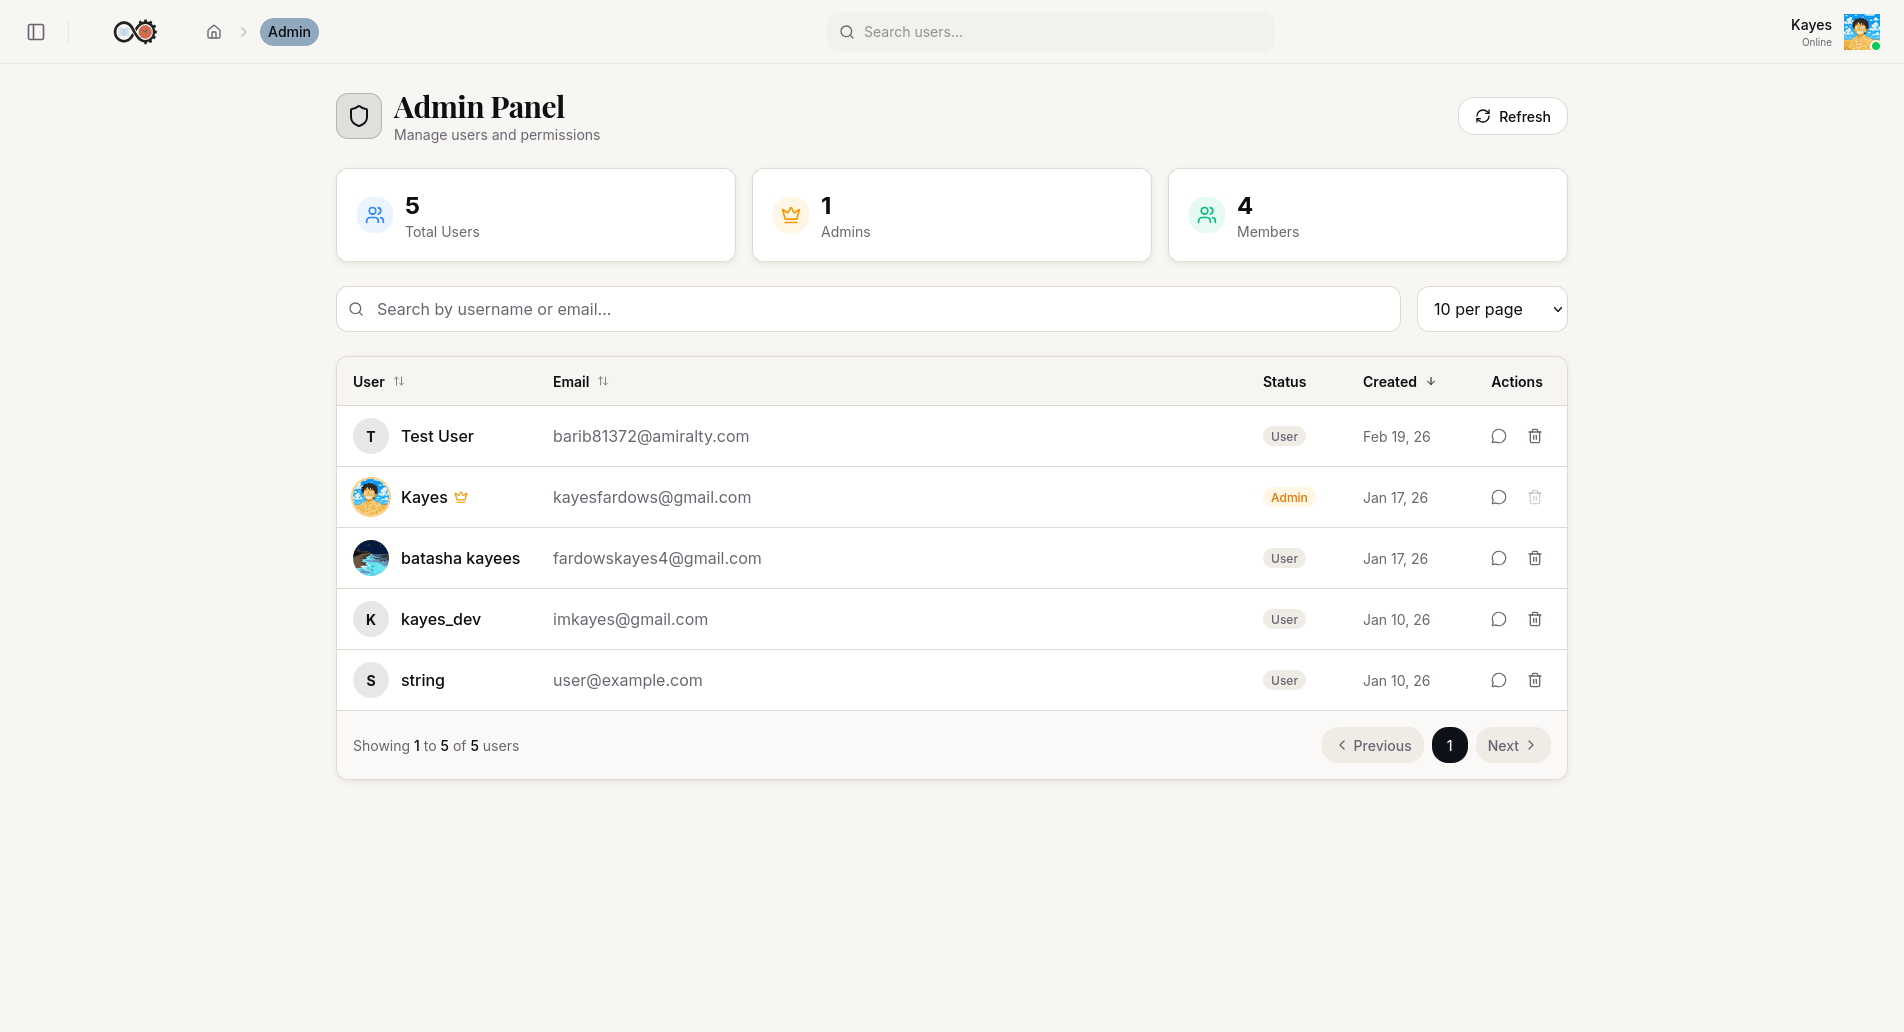
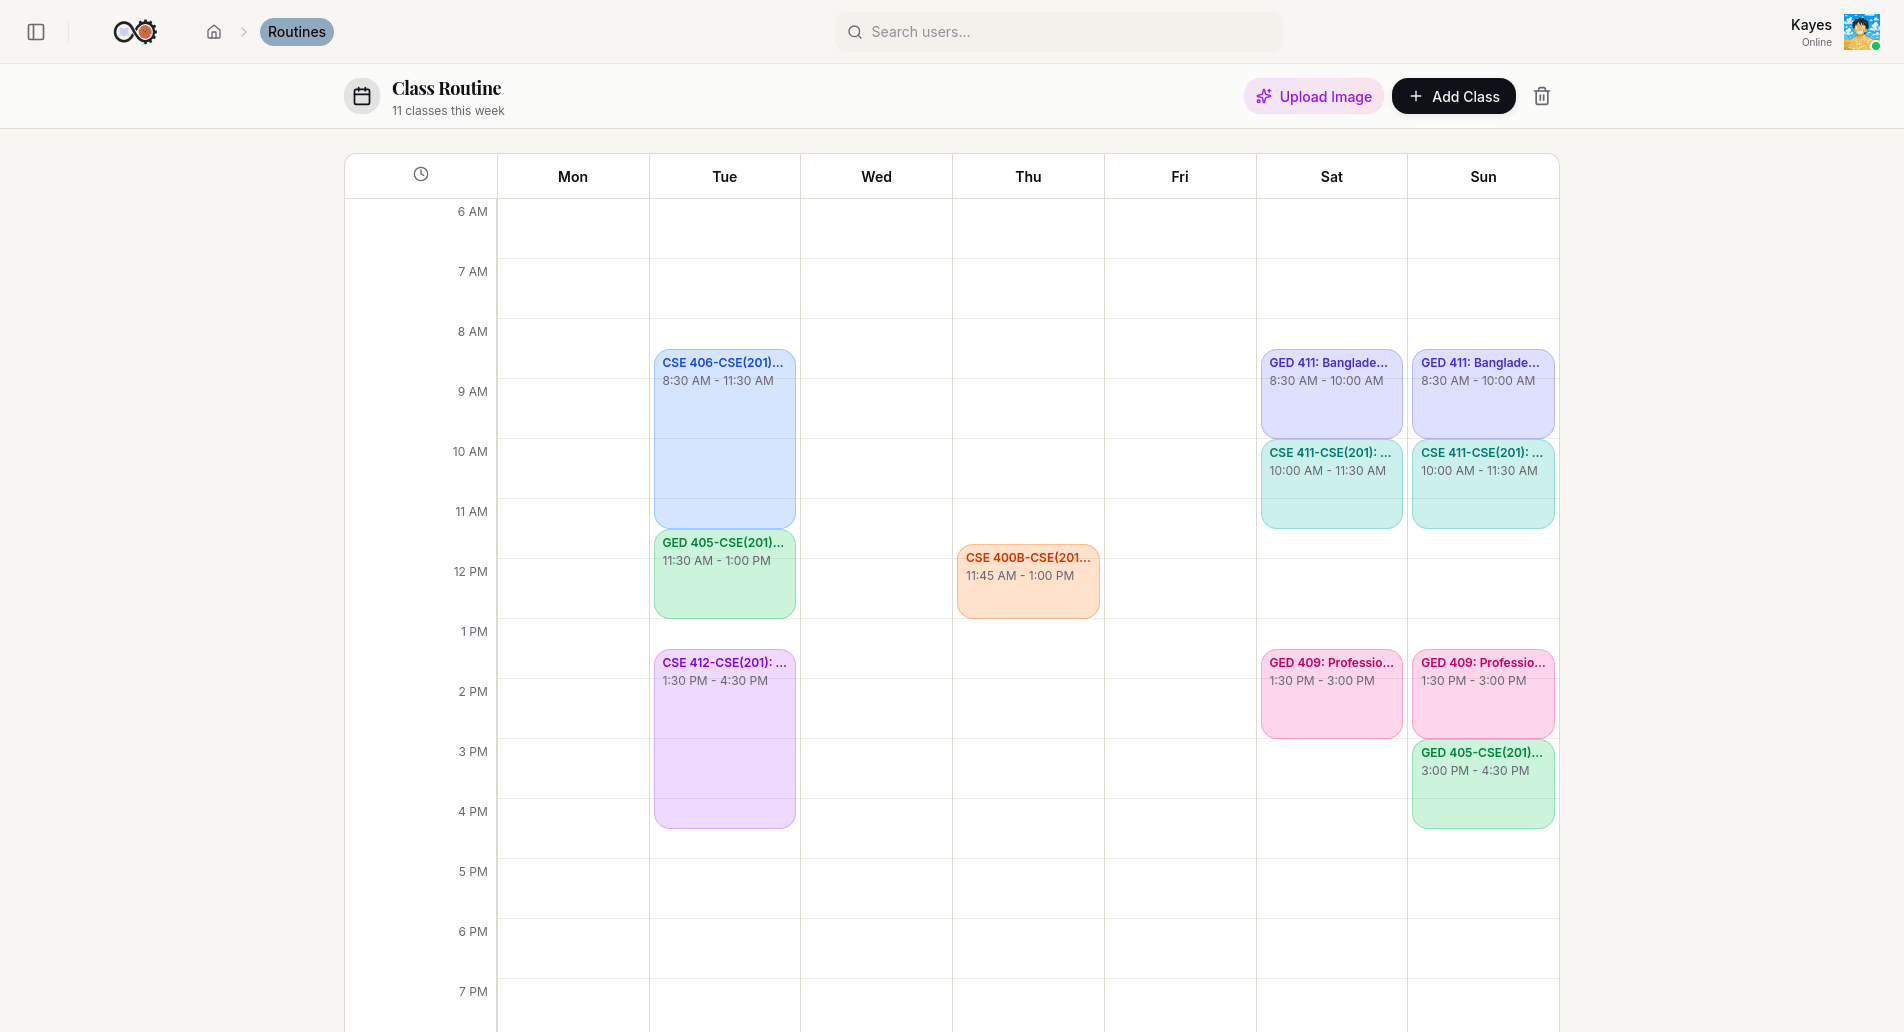
Update class schedule output image for enhanced visual representation

diff --git a/README.md b/README.md
@@ -11,7 +11,17 @@
 [![Backend](https://img.shields.io/badge/Backend-FastAPI-lightgrey.svg)](backend)
 [![Languages](https://img.shields.io/badge/Tech-TS%20%7C%20Python-%23007ACC)](#)
 
-LearnSync is a full-stack AI-powered learning and productivity platform combining a modern Next.js frontend with a FastAPI backend. It provides AI chat, course workspaces, quizzes, calendar sync, routine extraction, and file-based knowledge indexing.
+LearnSync is a full-stack AI-powered learning and productivity platform combining a Next.js frontend with a FastAPI backend. It provides multi-turn AI chat, document workspaces, quiz generation, Google Calendar synchronization, routine extraction from images, and file-based knowledge retrieval.
+
+### 🎯 Technical Reviewer Navigation
+To audit the codebase structure and review the system's outputs, use the direct shortcuts below:
+* **[🔎 End-to-End RAG Trace & Logs](#rag-trace)** — Step-by-step example tracing parsing, query expansion, metadata filters, and retrieval scoring.
+* **[📸 Core Workspace Screenshots](#interface-showcase)** — Visual interfaces displaying active RAG chats and key user workspaces.
+* **[📂 Complete 11+ Screen Gallery](#complete-gallery)** — Collapsed index containing quizzes, settings, editors, and administrative panels.
+* **[🏗 Full-Stack System Architecture Diagram](#system-architecture)** — High-level layout of user, worker, and storage layers.
+* **[💻 Direct Code Links](#rag-code-links)** — Link directly to the Python implementation files (Ingestion, Scoping, and Retrieval).
+
+---
 
 ## Quick links
 
@@ -29,58 +39,60 @@ LearnSync is a full-stack AI-powered learning and productivity platform combinin
 - Rich text editor (Tiptap) and translation utilities
 - JWT cookie auth + Google OAuth, admin and user settings
 
-## 🚀 Recruiter Spotlight: Production-Grade RAG Engine
+---
 
-LearnSync features a modern, industry-grade **Retrieval-Augmented Generation (RAG)** engine built to solve real-world retrieval issues like semantic dilution, context loss, data fragmentation, and exact-keyword search failures. 
+<h2 id="rag-architecture">🧠 Retrieval-Augmented Generation (RAG) Architecture</h2>
 
-Rather than using basic, naive langchain wrappers, LearnSync implements a high-performance, layout-aware pipeline:
+LearnSync implements a custom **Retrieval-Augmented Generation (RAG)** pipeline designed to address core document retrieval limitations, such as layout preservation during parsing, chunk semantic context-loss, and multi-turn conversational query ambiguity.
+
+Instead of treating text as a flat character string, the architecture integrates deep-learning document analysis with structured vector storage:
 
 ```mermaid
 graph TD
-    A[User File Upload] -->|Direct pre-signed upload| B[(Cloudflare R2)]
-    B -->|Asynchronous task trigger| C[Background Worker]
-    C -->|Layout-aware deep parsing| D[IBM Docling Converter]
-    D -->|Structural splitting| E[Hybrid Chunker]
-    E -->|Hierarchical breadcrumb enrichment| F[Contextual Prepender]
-    F -->|Dense + Sparse vectors indexing| G[(Qdrant Vector DB)]
+    A[File Upload] -->|R2 Pre-signed Upload| B[(Cloudflare R2)]
+    B -->|Async Event Task| C[Background Worker]
+    C -->|IBM Docling Parser| D[Document Layout Converter]
+    D -->|Hybrid Chunker| E[Structure-Aware Splitting]
+    E -->|Breadcrumb Extraction| F[Context Prepender]
+    F -->|Dense + Sparse Embeddings| G[(Qdrant Vector DB)]
     
-    H[User Search Query] -->|Multi-turn history expansion| I[LLM Query Rewriter]
-    I -->|High-speed security filter| J[Metadata Scoper]
-    J -->|Dual hybrid match| G
-    G -->|Dense Embedding Ollama| K[Semantic Match]
-    G -->|Sparse BM25 FastEmbed| L[Keyword Match]
-    K & L -->|RRF Fusion / Scoring| M[Top-K Augmented Context]
-    M -->|Synthesized response + Citations| N[Main LLM Inference]
+    H[User Search Query] -->|Multi-Turn History Expansion| I[LLM Query Rewriter]
+    I -->|Security & Access Controls| J[Qdrant Metadata Filter]
+    J -->|Dense + Sparse Fusion Search| G
+    G -->|Ollama Embeddings| K[Dense Match]
+    G -->|FastEmbed BM25| L[Sparse Match]
+    K & L -->|RRF Fusion / Scoring| M[Context Assembly]
+    M -->|Prompt Context + Citations| N[LLM Inference]
 ```
 
-### The 6 Technical Pillars of the LearnSync RAG Engine
+<h3 id="rag-code-links">Core Technical Implementation</h3>
 
-Browse the direct implementation files to review the production-level code patterns:
+You can review the direct implementation patterns in the following files:
 
-1. **Layout-Aware Deep Parsing (IBM Docling)** 
-   * **Source:** [ingestion.py (L76-104)](backend/src/rag/ingestion.py#L76-L104)
-   * **Mechanism:** Naive PDF parsers discard layout, column flows, and table structures. LearnSync utilizes **IBM's Docling** (`DocumentConverter`), employing deep-learning layout models to reconstruct the structural layout of documents before chunking.
-2. **Structure-Preserving Hybrid Chunking**
-   * **Source:** [ingestion.py (L91-101)](backend/src/rag/ingestion.py#L91-L101)
-   * **Mechanism:** Leverages Docling's `HybridChunker` to respect native boundaries (headers, lists, tables). This stops data fragmentation (like cutting a table row in half) and intelligently groups small chunks under a token-informed budget (up to 500 tokens).
-3. **Contextual Breadcrumb Enrichment**
-   * **Source:** [ingestion.py (L12-73)](backend/src/rag/ingestion.py#L12-L73)
-   * **Mechanism:** Solves the *"lost in chunking"* problem. During ingestion, it recursively extracts a chunk's hierarchical position (e.g., `Syllabus > Chapter 3 > Grading Criteria`) and prepends it to the chunk content prior to embedding. This maintains context even when the retrieved text is highly specific.
+1. **Layout-Aware Document Ingestion (IBM Docling)** 
+   * **Source File:** [ingestion.py (L76-104)](backend/src/rag/ingestion.py#L76-L104)
+   * **Implementation:** Text-based parsers discard layout formatting and column flow. LearnSync utilizes **IBM's Docling** (`DocumentConverter`), employing deep-learning layout models to reconstruct the structural layout (e.g. multi-column alignment, lists, tables) of documents before chunking.
+2. **Structure-Preserving Chunking**
+   * **Source File:** [ingestion.py (L91-101)](backend/src/rag/ingestion.py#L91-L101)
+   * **Implementation:** Leverages Docling's `HybridChunker` to respect native document boundaries (headers, lists, tables). This prevents splitting key items (like single table cells or list nodes) in half, grouping adjacent text nodes up to a 500-token threshold.
+3. **Contextual Enrichment**
+   * **Source File:** [ingestion.py (L12-73)](backend/src/rag/ingestion.py#L12-L73)
+   * **Implementation:** Resolves mid-document context loss (the *"lost in chunking"* problem). During ingestion, it recursively extracts a chunk's hierarchical section breadcrumbs (e.g. `Syllabus > Chapter 3 > Grading Criteria`) and prepends this trail directly to the chunk's content before computing embeddings.
 4. **Multi-Turn Query Rewriting & Expansion**
-   * **Source:** [rag_node.py (L12-38)](backend/src/agents/nodes/rag_node.py#L12-L38)
-   * **Mechanism:** Converts conversational multi-turn queries (e.g., *"how is it graded?"*) into a retrieval-focused search query by expanding the query with context and history (e.g., *"CS101 grading breakdown percentage syllabus assignments exams"*).
-5. **Secure, Scoped Metadata Filtering**
-   * **Source:** [rag_node.py (L47-74)](backend/src/agents/nodes/rag_node.py#L47-L74)
-   * **Mechanism:** Applies high-speed **Qdrant native field filtering** (`Filter`, `MatchAny`, `MatchValue`) at search time. This ensures total data isolation, restricting the RAG scope to the user's specific `user_id` and selected `file_ids`, `folder_id`, or current conversation.
-6. **Dual-Engine Hybrid Search (Dense + Sparse)**
-   * **Source:** [store.py (L53-66)](backend/src/rag/store.py#L53-L66) & [retrieval.py (L7-23)](backend/src/rag/retrieval.py#L7-L23)
-   * **Mechanism:** Fuses semantic similarity with keyword match. Combines **Dense Vector Search** (`OllamaEmbeddings`) for synonyms and conceptual matching, with **Sparse Vector Search** (`FastEmbedSparse` with `Qdrant/bm25`) for matching exact IDs, technical jargon, and codes.
+   * **Source File:** [rag_node.py (L12-38)](backend/src/agents/nodes/rag_node.py#L12-L38)
+   * **Implementation:** Converts conversational shorthand (e.g. *"how is it graded?"*) into a standalone retrieval vector search query by prompting a dedicated LLM thread with the user query and the last three turns of conversation history.
+5. **Metadata-Scoped Vector Filtering**
+   * **Source File:** [rag_node.py (L47-74)](backend/src/agents/nodes/rag_node.py#L47-L74)
+   * **Implementation:** Restricts vector queries at search time using Qdrant field conditions (`metadata.user_id` and selected `file_ids`, `folder_id`, or `conversation_id`) to ensure data isolation.
+6. **Dense + Sparse Hybrid Search**
+   * **Source File:** [store.py (L53-66)](backend/src/rag/store.py#L53-L66) & [retrieval.py (L7-23)](backend/src/rag/retrieval.py#L7-L23)
+   * **Implementation:** Configures a Qdrant `HYBRID` vector store blending Dense Search (`OllamaEmbeddings` for conceptual semantics) and Sparse Search (`FastEmbedSparse` with BM25 for exact terms/IDs).
 
 ---
 
-### 🔎 Concrete RAG Execution Trace (End-to-End Inputs/Outputs)
+<h2 id="rag-trace">🔎 RAG Execution Trace (Inputs & Outputs)</h2>
 
-Here is a dry-run trace demonstrating how a complex document layout is ingested, retrieved, and synthesized into a precise response:
+This dry-run trace demonstrates how a complex document layout is ingested, scoped, retrieved, and synthesized into a response:
 
 #### 1. Ingestion Phase (Document Parsing & Enrichment)
 * **Uploaded File:** `LLM_Agents_Overview.pdf`
@@ -148,7 +160,7 @@ Here is a dry-run trace demonstrating how a complex document layout is ingested,
 
 ---
 
-## 🏗 Architecture & Core Components
+<h2 id="system-architecture">🏗 System Architecture & Components</h2>
 
 LearnSync is organized as a clear, decoupled full-stack system. The React frontend interacts with the FastAPI backend via cookie-authenticated REST APIs and Server-Sent Events (SSE) for AI streaming.
 
@@ -160,7 +172,7 @@ LearnSync is organized as a clear, decoupled full-stack system. The React fronte
 
 ---
 
-## 📸 Interactive Visual Interface
+<h2 id="interface-showcase">📸 User Interface Showcase</h2>
 
 Here are the primary workspaces of LearnSync. Review the full design specs in `frontend/outputs/`:
 
@@ -170,26 +182,26 @@ Here are the primary workspaces of LearnSync. Review the full design specs in `f
 ### RAG-Powered AI Chat (Active Ingestion & Source Citations)
 ![Chat](frontend/outputs/conversation_with_llm.png)
 
-<details>
+<details id="complete-gallery">
 <summary>📂 Click to expand the Complete Application Gallery (11+ additional screens)</summary>
 <br>
 
 A closer look at the premium, responsive UI elements implemented throughout LearnSync:
 
-| Section | Interface Description | Screenshot |
-| :--- | :--- | :--- |
-| **Course Workspace** | Dynamic study folder containing modules, AI summaries, and files. | ![Course workspace](frontend/outputs/course.png) |
-| **Interactive Mind Maps** | Auto-generated modular mind maps representing document structures. | ![Mind map](frontend/outputs/mindmap.png) |
-| **AI Quiz Generation** | Configure custom difficulty, count, and topic targets. | ![New quiz modal](frontend/outputs/new_quiz.png) |
-| **Interactive Quiz Interface** | Live testing playground with timing constraints. | ![Quiz view](frontend/outputs/quiz.png) |
-| **Immediate Quiz Feedback** | Detailed corrections showing explanation logs and correct answers. | ![Quiz feedback](frontend/outputs/quiz_wrong.png) |
-| **Google Calendar Hub** | Standard calendar sync displaying extracted routines. | ![Calendar view](frontend/outputs/calendar.png) |
-| **Class Schedule Extract** | Weekly schedule view loaded asynchronously from user inputs. | ![Class schedule](frontend/outputs/class_schedule.png) |
-| **Rich Document Editor** | Tiptap-powered editor containing translate, format, and expand tools. | ![Editor](frontend/outputs/text_editor.png) |
-| **Peer Chat Messenger** | Real-time direct message client with peer context syncing. | ![Chat (people)](frontend/outputs/chat_with_people.png) |
-| **Administrative Panel** | User overview list, token trackers, and diagnostic panels. | ![Admin panel](frontend/outputs/admin_pannel.png) |
-| **Profile Settings** | Manage credentials and adjust visual display parameters. | ![Profile](frontend/outputs/profile.png) |
-| **System Settings** | Toggle custom themes, font faces, and localized clock limits. | ![Settings](frontend/outputs/settings.png) |
+| Section | Screenshot |
+| :--- | :--- |
+| **Course Workspace** (Modules, AI Summaries & Files) | ![Course workspace](frontend/outputs/course.png) |
+| **Interactive Mind Maps** (Document Structure Visualizer) | ![Mind map](frontend/outputs/mindmap.png) |
+| **AI Quiz Configuration** (Difficulty & Scope Controls) | ![New quiz modal](frontend/outputs/new_quiz.png) |
+| **Interactive Quiz Interface** (Timed Testing Playground) | ![Quiz view](frontend/outputs/quiz.png) |
+| **Immediate Quiz Feedback** (Detailed Corrections & Explanations) | ![Quiz feedback](frontend/outputs/quiz_wrong.png) |
+| **Google Calendar Hub** (Syncing Extracted Routines) | ![Calendar view](frontend/outputs/calendar.png) |
+| **Class Schedule Extraction** (Asynchronous Weekly View) | ![Class schedule](frontend/outputs/class_schedule.png) |
+| **Rich Text Editor** (Tiptap-Powered Editing & Translation Tools) | ![Editor](frontend/outputs/text_editor.png) |
+| **Peer Chat Messenger** (Real-Time Messaging Workspace) | ![Chat (people)](frontend/outputs/chat_with_people.png) |
+| **Administrative Diagnostic Panel** (User Tracking & Token Metrics) | ![Admin panel](frontend/outputs/admin_pannel.png) |
+| **Profile Settings** (Credential Management) | ![Profile](frontend/outputs/profile.png) |
+| **System Settings** (Visual Customization & Locale Limits) | ![Settings](frontend/outputs/settings.png) |
 
 </details>
 
